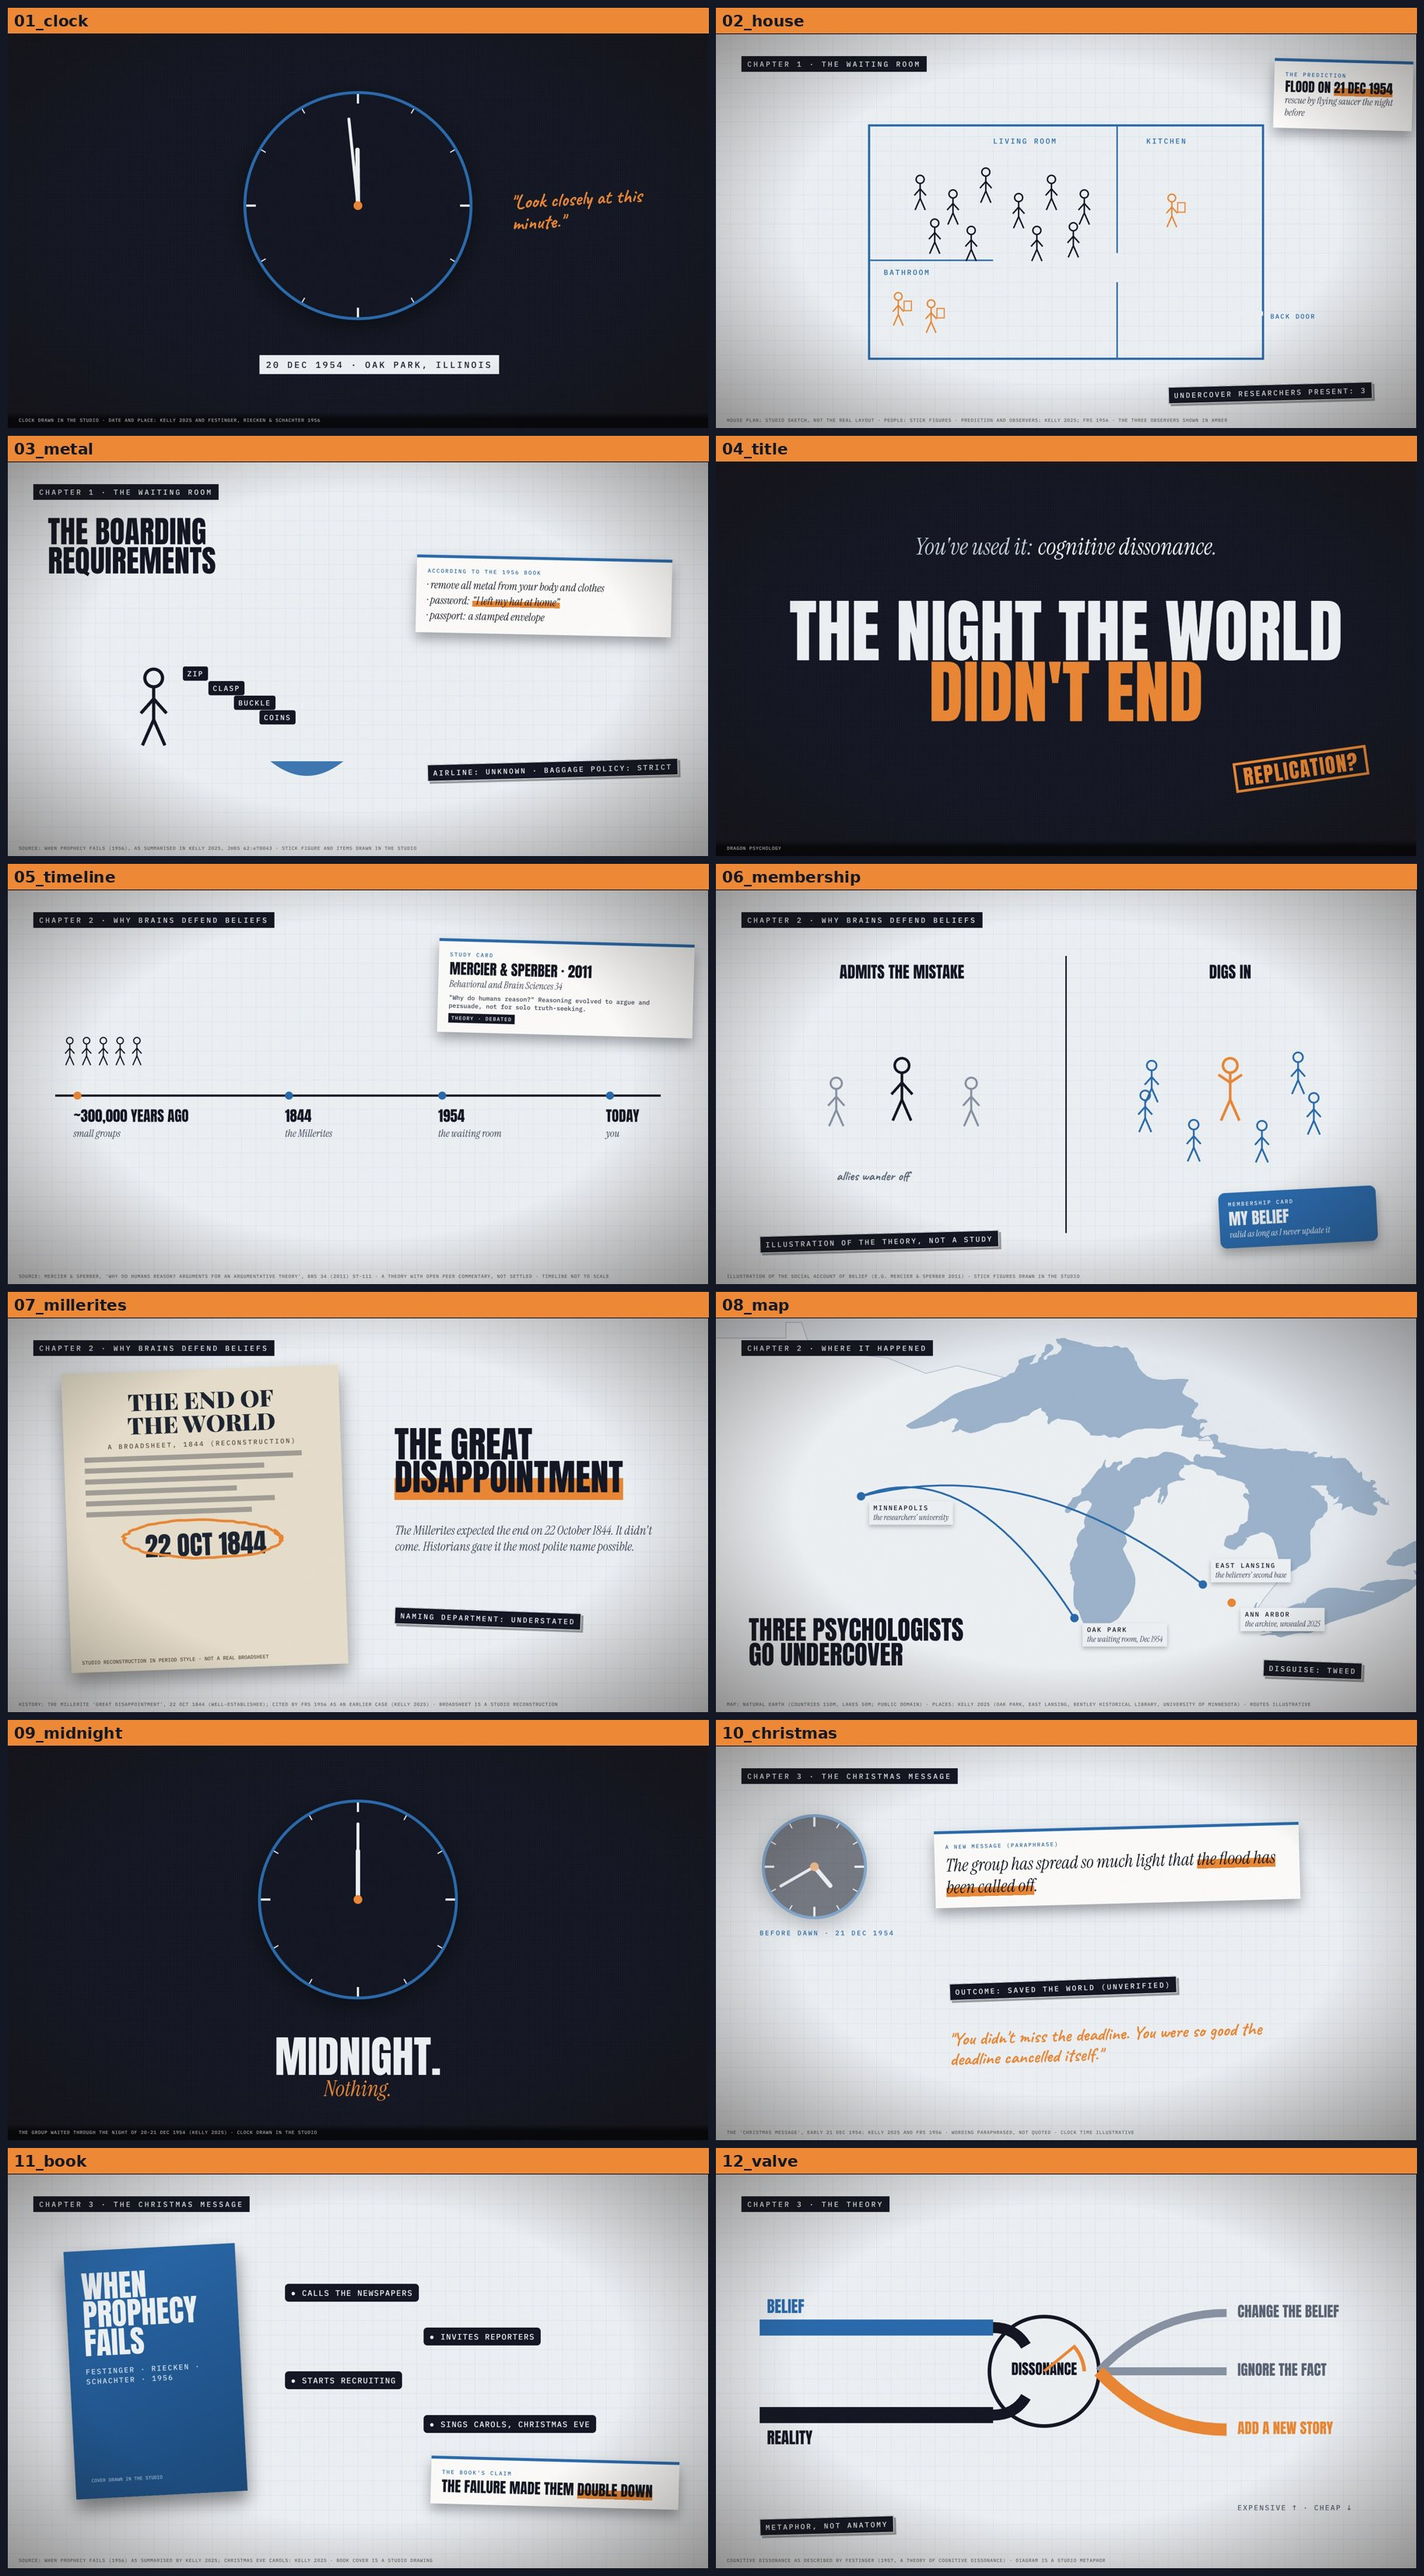
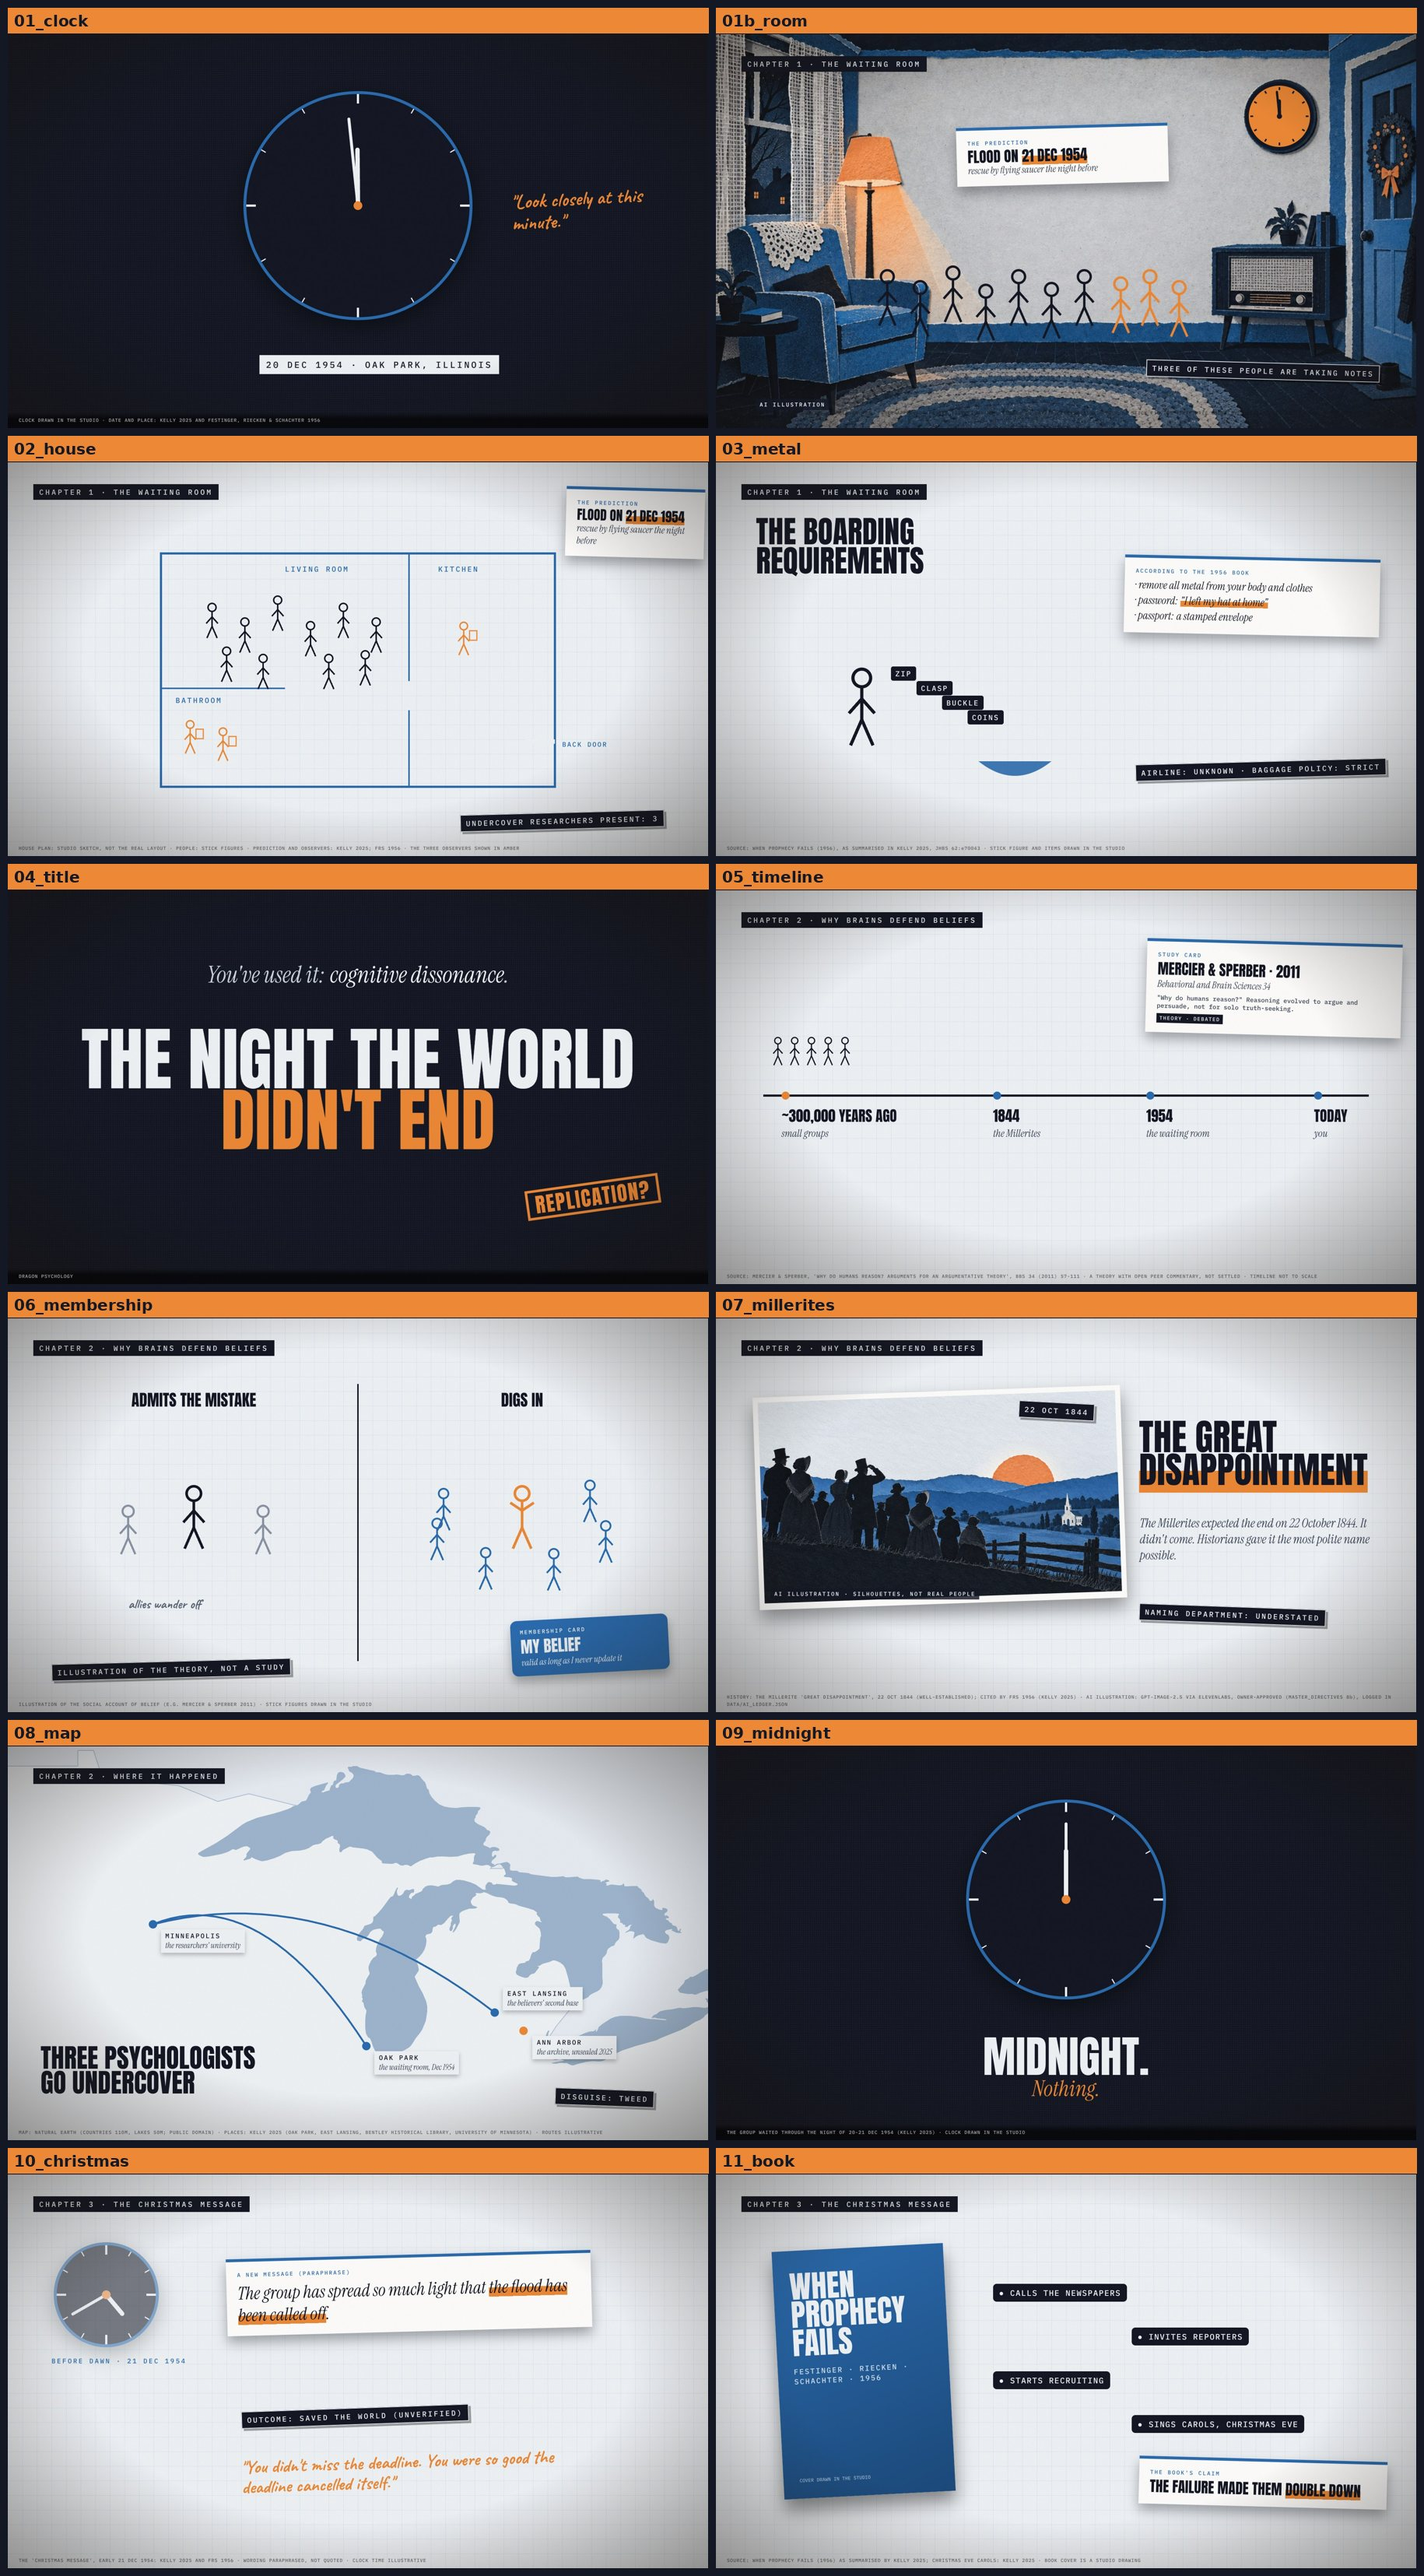
Prophecy film: owner's AI picks built in (living room, Millerites, archive box, antelope gag, end sky); sheets rebuilt; PRESHOW updated
Claude-Session: https://claude.ai/code/session_017xrBtfYjuM4LWtQjRrahAL

diff --git a/creatorforge/films/prophecy-2026-11-19/ai_frames.py b/creatorforge/films/prophecy-2026-11-19/ai_frames.py
@@ -1,0 +1,72 @@
+"""AI illustration layer (owner's picks, 2026-11-19: A1, B3, C1, D1, E2). Runs after frames.py and replaces or adds frames.
+Every AI plate is labelled AI ILLUSTRATION on screen and logged in data/ai_ledger.json (model, prompt, credits)."""
+import math
+from frames import (page, A, a, put, chapter, tag, card, stick, clock, hl, wobble, SL, PAPER, CO, AM)  # noqa: F401  (frames.py re-renders first)
+
+AI = lambda f, extra="": f'<img src="/assets/ai/{f}.jpg" style="width:1920px;height:1080px;object-fit:cover;display:block;{extra}">'
+LBL = lambda x=1500, y=1000: a(f'<div style="background:rgba(20,24,36,.82);color:{PAPER};font:500 15px Plex;letter-spacing:3px;padding:6px 10px">AI ILLUSTRATION</div>', x, y, "z-index:85")
+AISRC = "AI ILLUSTRATION: GPT-IMAGE-2.5 VIA ELEVENLABS, OWNER-APPROVED (MASTER_DIRECTIVES 8b), LOGGED IN DATA/AI_LEDGER.JSON"
+
+
+def small_clock(cx, cy, r, h, m):
+    ha = math.radians((h % 12 + m / 60) * 30); ma = math.radians(m * 6)
+    ticks = "".join(f'<line x1="{cx + (r - 12) * math.sin(math.radians(i * 30)):.1f}" y1="{cy - (r - 12) * math.cos(math.radians(i * 30)):.1f}" x2="{cx + r * .95 * math.sin(math.radians(i * 30)):.1f}" y2="{cy - r * .95 * math.cos(math.radians(i * 30)):.1f}" stroke="{SL}" stroke-width="4"/>' for i in range(12))
+    return (f'<svg class="a" style="left:0;top:0;z-index:30" width="1920" height="1080"><circle cx="{cx}" cy="{cy}" r="{r + 10}" fill="{SL}"/><circle cx="{cx}" cy="{cy}" r="{r}" fill="{AM}"/>{ticks}'
+            f'<line x1="{cx}" y1="{cy}" x2="{cx + r * .5 * math.sin(ha):.1f}" y2="{cy - r * .5 * math.cos(ha):.1f}" stroke="{SL}" stroke-width="9" stroke-linecap="round"/>'
+            f'<line x1="{cx}" y1="{cy}" x2="{cx + r * .8 * math.sin(ma):.1f}" y2="{cy - r * .8 * math.cos(ma):.1f}" stroke="{SL}" stroke-width="6" stroke-linecap="round"/><circle cx="{cx}" cy="{cy}" r="7" fill="{SL}"/></svg>')
+
+
+# A1 · the living room (new establishing frame, after the clock)
+people = "".join(stick(x, y, 1.6, SL) for x, y in ((470, 700), (560, 730), (650, 690), (740, 740), (830, 700), (920, 735), (1010, 700)))
+observers = "".join(f'<g data-anim="fade {.45 + i * .06:.2f} {.52 + i * .06:.2f}">{stick(x, y, 1.6, AM)}</g>' for i, (x, y) in enumerate(((1110, 720), (1190, 700), (1270, 730))))
+put("01b_room", page(
+    a(AI("A1"), 0, 0) + small_clock(1545, 225, 84, 11, 59)
+    + f'<svg class="a" data-anim="fade .1 .25" style="left:0;top:0;z-index:25" width="1920" height="1080">{people}</svg>'
+    + f'<svg class="a" style="left:0;top:0;z-index:26" width="1920" height="1080">{observers}</svg>'
+    + card(f'<div style="font:500 15px Plex;letter-spacing:3px;color:{CO}">THE PREDICTION</div><div style="font:400 40px/1.05 Anton;color:{SL};margin-top:6px">FLOOD ON {hl("21 DEC 1954")}</div>'
+           f'<div style="font:400 26px ISerif;color:#3A4456">rescue by flying saucer the night before</div>', 520, 660, 250, "up .3 .42", -1.5, "#FFFFFF", "z-index:40")
+    + tag("THREE OF THESE PEOPLE ARE TAKING NOTES", 1180, 900, 1.5, "snap .8 .8") + LBL(110, 1000)
+    + chapter(1, "THE WAITING ROOM"),
+    PAPER, AISRC + " · PEOPLE: STICK FIGURES (THE THREE UNDERCOVER RESEARCHERS IN AMBER) · CLOCK CORRECTED TO 11:59 IN THE STUDIO"))
+
+# C1 · the Millerites
+put("07_millerites", page(
+    a(f'<div style="width:1920px;height:1080px;background:{PAPER};background-image:linear-gradient(rgba(43,108,176,.10) 1px,transparent 1px),linear-gradient(90deg,rgba(43,108,176,.10) 1px,transparent 1px);background-size:40px 40px"></div>', 0, 0)
+    + chapter(2, "WHY BRAINS DEFEND BELIEFS")
+    + A(f'<div style="background:#fff;padding:14px 14px 18px;box-shadow:0 26px 50px rgba(0,0,0,.4);transform:rotate(-2deg)"><img src="/assets/ai/C1.jpg" style="width:980px;height:551px;object-fit:cover;display:block"></div>', 110, 200, "up 0 .15")
+    + a(f'<div style="background:rgba(20,24,36,.82);color:{PAPER};font:500 15px Plex;letter-spacing:3px;padding:6px 10px">AI ILLUSTRATION · SILHOUETTES, NOT REAL PEOPLE</div>', 150, 740, "z-index:40")
+    + tag("22 OCT 1844", 830, 230, 3, "snap .25 .25")
+    + A(f'<div style="font:400 100px/0.9 Anton;color:{SL}">THE GREAT<br>{hl("DISAPPOINTMENT")}</div>', 1160, 280, "slam .45 .47")
+    + A(f'<div style="font:400 34px/1.3 ISerif;color:#3A4456;width:680px">The Millerites expected the end on 22 October 1844. It didn\'t come. Historians gave it the most polite name possible.</div>', 1162, 540, "fade .55 .7")
+    + tag("NAMING DEPARTMENT: UNDERSTATED", 1160, 790, 2, "snap .85 .85"),
+    PAPER, "HISTORY: THE MILLERITE 'GREAT DISAPPOINTMENT', 22 OCT 1844 (WELL-ESTABLISHED); CITED BY FRS 1956 (KELLY 2025) · " + AISRC))
+
+# E2 · the archive box
+sheets = "".join(A(f'<div style="width:300px;height:380px;background:#FFFFFF;box-shadow:0 12px 24px rgba(0,0,0,.3);transform:rotate({r}deg);padding:26px;box-sizing:border-box">'
+                   f'<div style="font:500 14px Plex;letter-spacing:2px;color:{CO}">{t}</div>' + "".join(f'<div style="height:8px;background:rgba(31,38,51,.3);margin:14px 0;width:{w}%"></div>' for w in (90, 70, 84, 60, 78, 66, 88))
+                   + '</div>', x, y, f"drop {s:.2f} {s + .08:.2f}") for t, x, y, r, s in
+                 (("TRANSCRIPT", 1100, 160, -6, .35), ("PHONE LOG", 1330, 140, 4, .43), ("RESEARCH NOTES", 1560, 180, -3, .51), ("\"MESSAGE FROM SPACE\"", 1320, 560, 6, .59)))
+put("15_box", page(
+    a(f'<div style="width:1920px;height:1080px;background:{PAPER}"></div>', 0, 0) + chapter(4, "THE ARCHIVE")
+    + A(f'<div style="position:relative;background:#fff;padding:12px;box-shadow:0 26px 50px rgba(0,0,0,.4);transform:rotate(-1.5deg)"><img src="/assets/ai/E2.jpg" style="width:960px;height:540px;object-fit:cover;display:block">'
+        f'<div style="position:absolute;left:470px;top:400px;background:{PAPER};padding:8px 12px;font:500 15px/1.5 Plex;letter-spacing:2px;color:{SL};transform:rotate(4deg)">LEON FESTINGER PAPERS · BOX 4<br>BENTLEY HISTORICAL LIBRARY</div></div>', 100, 260, "up 0 .15")
+    + a(f'<div style="background:rgba(20,24,36,.82);color:{PAPER};font:500 15px Plex;letter-spacing:3px;padding:6px 10px">AI ILLUSTRATION · NOT THE REAL BOX</div>', 140, 820, "z-index:40")
+    + sheets + tag("PAGES: RECONSTRUCTION · ORIGINALS AT THE BENTLEY", 1100, 960, -1.5, "fade .6 .7")
+    + A(f'<div style="font:400 72px/0.95 Anton;color:{SL}">UNSEALED {hl("2025")}</div>', 110, 140, "up .1 .2"),
+    PAPER, "BOX 4 CONTENTS: KELLY 2025 · " + AISRC))
+
+# D1 · the antelope gag
+put("19_antelope", page(
+    a(AI("D1"), 0, 0) + chapter(4, "THE ARCHIVE")
+    + A(f'<div style="font:700 60px Caveat;color:{SL};transform:rotate(-3deg)">"Fascinating."</div>', 110, 170, "fade .55 .65", "z-index:40")
+    + tag("NATURE DOCUMENTARY · ETHICS SECTION: BLANK", 1060, 120, 2, "snap .85 .85") + LBL(110, 1000),
+    PAPER, "SIGHT GAG ILLUSTRATING KELLY 2025'S CLAIM THAT THE OBSERVERS SHAPED EVENTS · " + AISRC))
+
+# B3 · the end card: the saucer arrives late
+put("24_end", page(
+    a(AI("B3", "filter:brightness(.9)"), 0, 0)
+    + A(f'<div style="opacity:.92">{clock(0, 1, 300, "", SL, True)}</div>', 810, 90, "fade 0 .12", "z-index:30")
+    + A(f'<div style="font:400 50px/1.3 ISerif;color:{PAPER};text-align:center;width:1920px;text-shadow:0 2px 14px rgba(0,0,0,.8)">The aliens never came.<br>Seventy years later, <span style="color:{AM}">the truth did</span>, a little late.</div>', 0, 440, "fade .45 .65", "z-index:40")
+    + LBL(1700, 1000),
+    "#141824", "DRAGON PSYCHOLOGY · SOURCES IN THE DESCRIPTION · " + AISRC, dark=True))
+print("ok")

diff --git a/creatorforge/films/prophecy-2026-11-19/PRESHOW.md b/creatorforge/films/prophecy-2026-11-19/PRESHOW.md
@@ -44,3 +44,14 @@ at four moments of its animation (sheets `M_1`–`M_3`). There is no video, voic
 ## Still to decide
 - **Changes** to the frames or script.
 - **Go** for the video, and the **voice**: the Kokoro stand-in, your ElevenLabs voice (with your permission), or your cloned voice.
+
+## Added 2026-11-19: AI illustrations (owner's picks A1, B3, C1, D1, E2)
+- **01b_room (new frame, after the clock):** an AI paper-cut 1950s living room, stick figures and the prediction card. The three
+  researchers are in amber. The AI clock is corrected to 11:59.
+- **07_millerites:** the AI 1844 dawn scene of faceless silhouettes replaces my drawn broadsheet.
+- **15_box:** an AI archive box, with a "BOX 4" label set on it and labelled "not the real box".
+- **19_antelope:** the AI antelope-and-lion gag, with the tweed hand holding a microphone.
+- **24_end:** the AI night sky with the late saucer and the lit window, under the cracked clock.
+- **Labels and ledger:** every AI plate is labelled "AI ILLUSTRATION" on screen and logged in `data/ai_ledger.json`. No real person
+  is depicted, and none stands in for evidence.
+- **Credits:** about 3,800 ElevenLabs credits for the 20 options.
